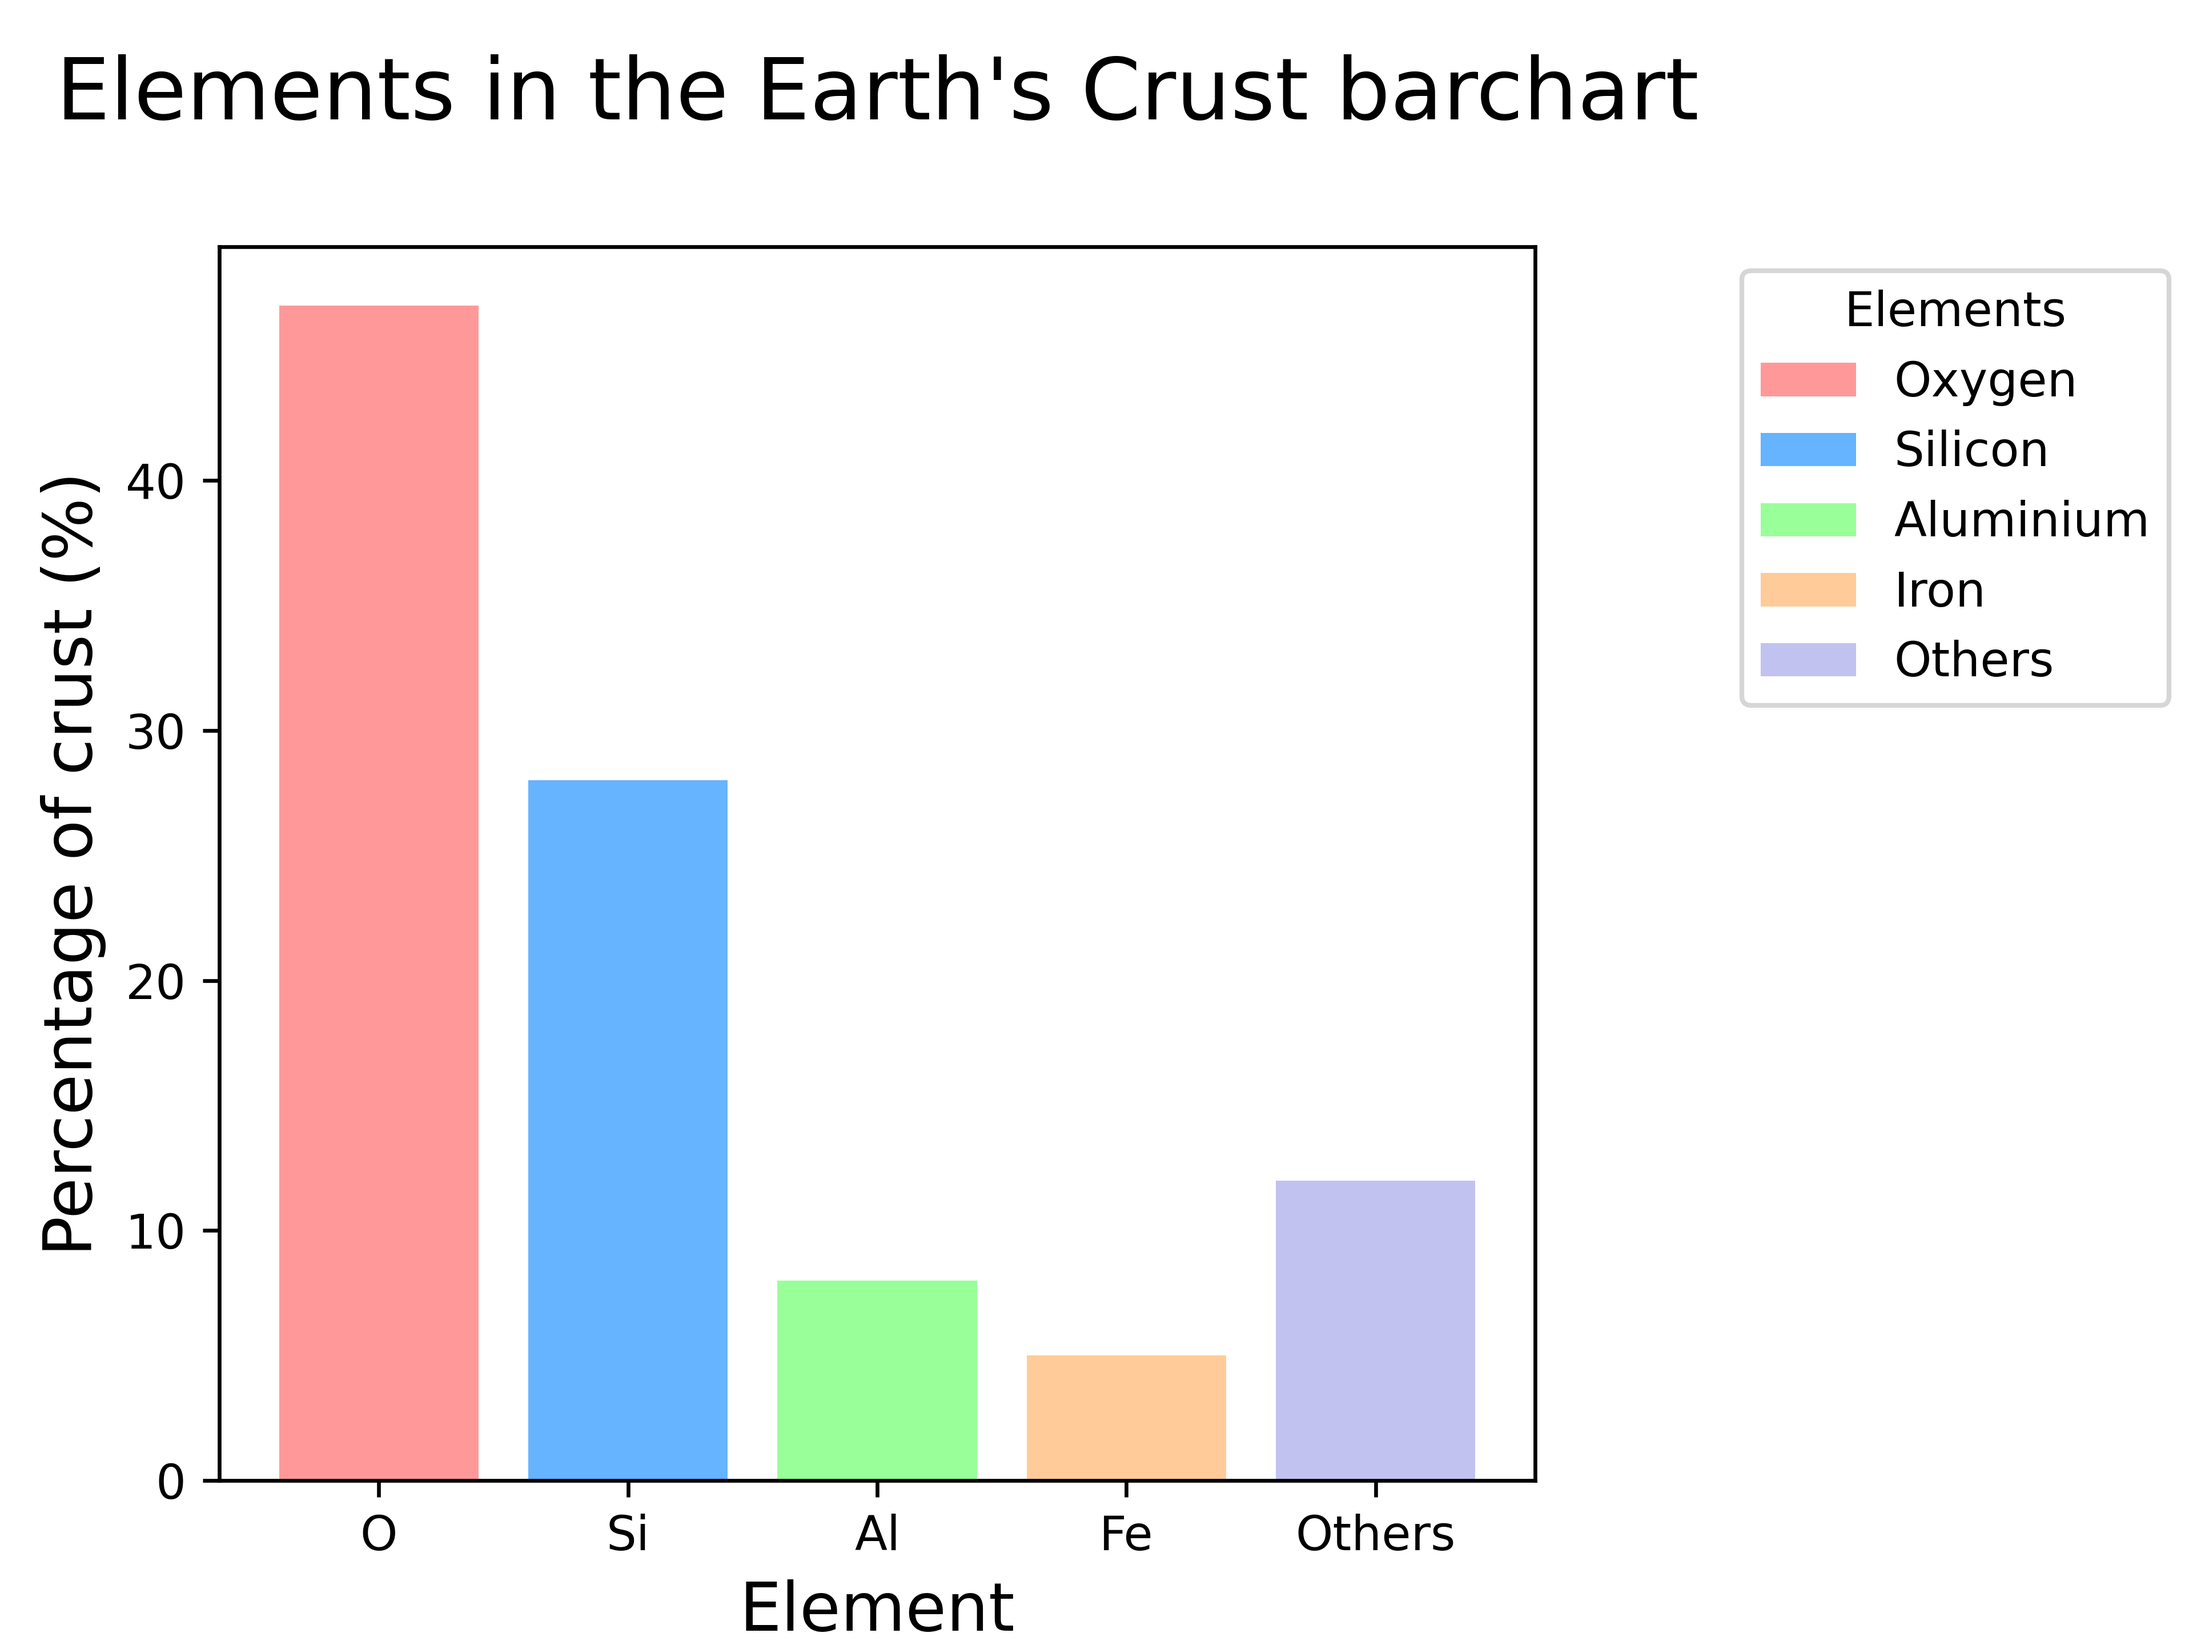
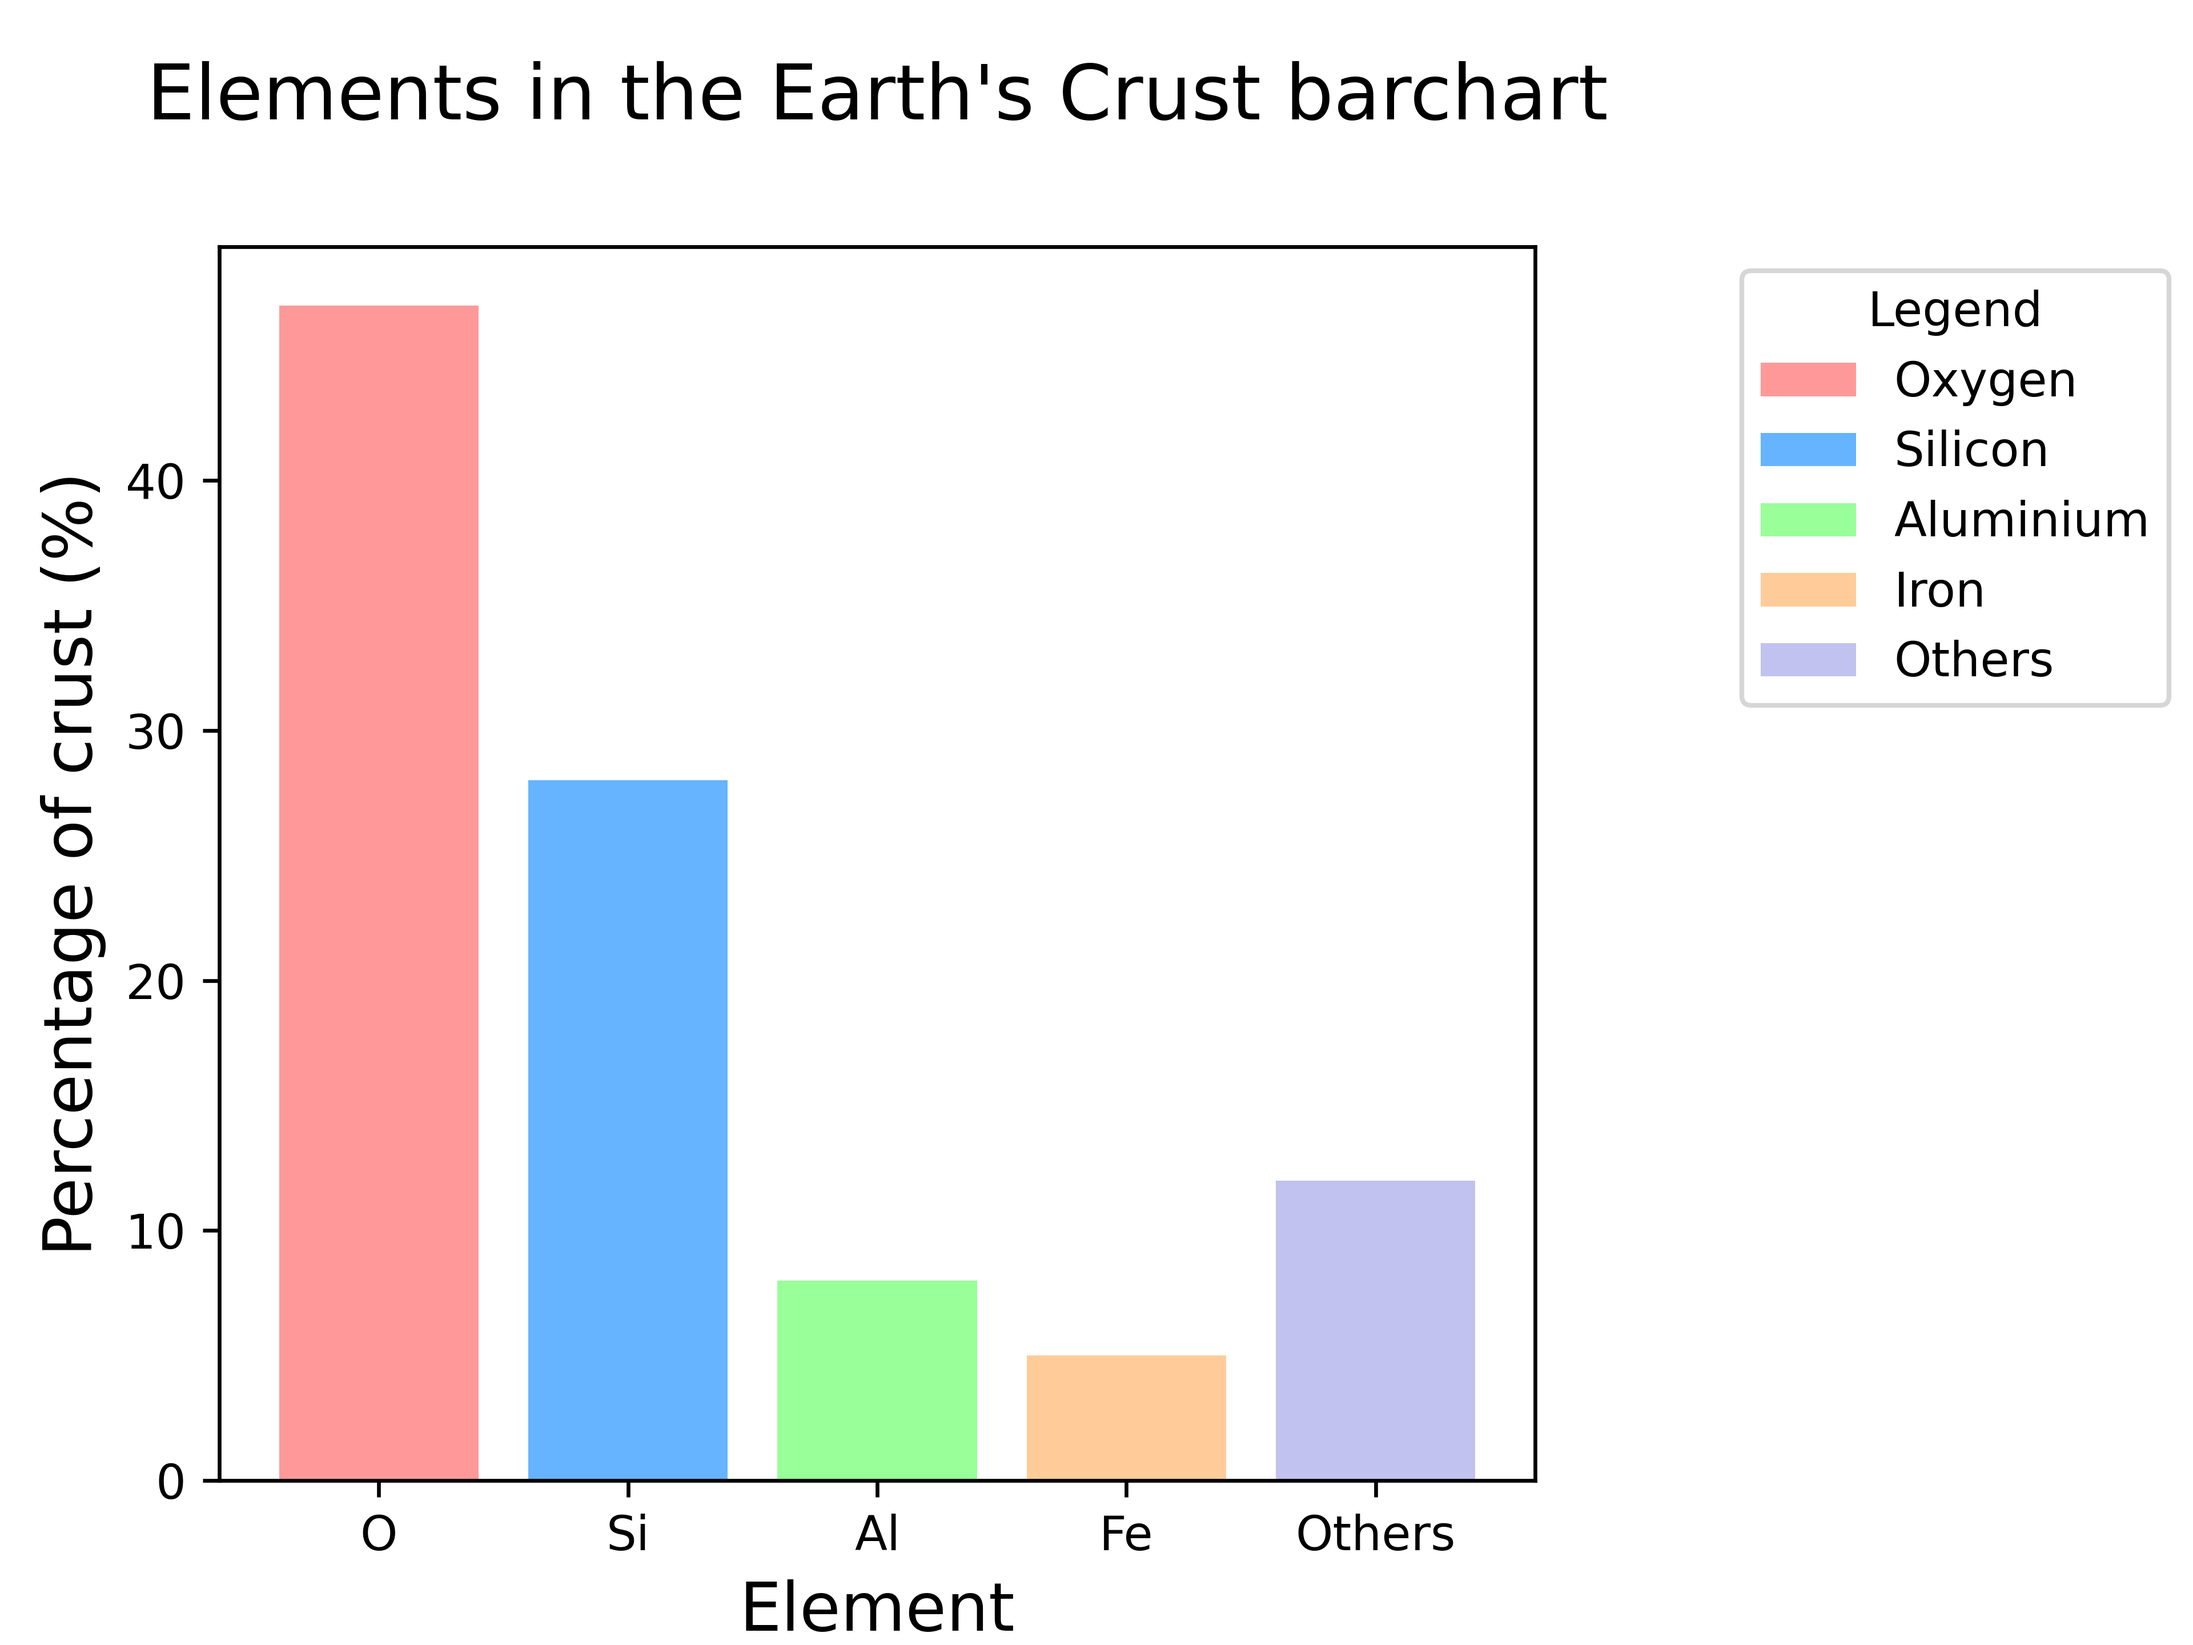
up

Changed region(s): [[0.0312, 0.0312, 0.7812, 0.0938], [0.8438, 0.1562, 0.9375, 0.2188]]

diff --git a/docs/matplotlib/files/bar_chart_earth.py b/docs/matplotlib/files/bar_chart_earth.py
@@ -4,7 +4,7 @@ from pathlib import Path
 from matplotlib.patches import Patch
 
 
-def plot_bar_chart(data, labels, full_labels, title):
+def plot_bar_chart(data, labels, legend_labels, title, xlabel, ylabel):
     # Define the colors to use for the bar chart
     colors = ['#ff9999', '#66b3ff', '#99ff99', '#ffcc99', '#c2c2f0']
     # Plot the bar chart with the given data, labels, and formatting options
@@ -12,14 +12,14 @@ def plot_bar_chart(data, labels, full_labels, title):
     # Add some space around the plot
     plt.subplots_adjust(left=0.1, right=0.70, top=0.85, bottom=0.1)
     # X and Y labels
-    plt.xlabel("Element", fontsize=14)
-    plt.ylabel("Percentage of crust (%)", fontsize=14)
+    plt.xlabel(xlabel, fontsize=14)
+    plt.ylabel(ylabel, fontsize=14)
     # Add a title to the plot
-    plt.title(title, y=1.08, size=18)
+    plt.title(title, y=1.08, size=16)
     # Create a list of Patch objects with the same colors as the bars in the bar chart
-    legend_elements = [Patch(facecolor=color, label=label) for color, label in zip(colors, full_labels)]
-    # Add a legend to the plot using the given full_labels and colors from the bar chart
-    plt.legend(handles=legend_elements, title="Elements", loc="upper right", bbox_to_anchor=(1, 0, 0.5, 1))
+    legend_elements = [Patch(facecolor=color, label=label) for color, label in zip(colors, legend_labels)]
+    # Add a legend to the plot using the given legend_labels and colors from the bar chart
+    plt.legend(handles=legend_elements, title="Legend", loc="upper right", bbox_to_anchor=(1, 0, 0.5, 1))
     # Get the directory of the current file
     currfile_dir = Path(__file__).parent
     # Replace spaces in title with underscores to create filename for saving figure
@@ -38,11 +38,15 @@ def earth_elements():
     # Labels for each wedge of the pie chart
     labels = ['O', 'Si', 'Al', 'Fe', 'Others']
     # Full labels for legend
-    full_labels = ['Oxygen', 'Silicon', 'Aluminium', 'Iron', 'Others']
+    legend_labels = ['Oxygen', 'Silicon', 'Aluminium', 'Iron', 'Others']
     # Title for plot and filename for saving figure
     title = "Elements in the Earth's Crust barchart"
-    # Call the function to plot the data with given data, labels, title and full_labels
-    plot_bar_chart(data, labels, full_labels, title)
+    # X axis label
+    xlabel = "Element"
+    # Y axis label
+    ylabel = "Percentage of crust (%)"
+    # Call the function to plot the data with given data, labels, legend_labels, title and axis labels.
+    plot_bar_chart(data, labels, legend_labels, title, xlabel, ylabel)
 
 
 if __name__ == '__main__':

diff --git a/docs/matplotlib/files/bar_chart_earth_simple.py b/docs/matplotlib/files/bar_chart_earth_simple.py
@@ -1,0 +1,43 @@
+import matplotlib.pyplot as plt
+import numpy as np
+from pathlib import Path
+from matplotlib.patches import Patch
+
+
+def plot_bar_chart(data, labels, title, xlabel, ylabel):
+    # Plot the bar chart with the given data, labels, and formatting options
+    plt.bar(labels, data)
+    # X and Y labels
+    plt.xlabel(xlabel)
+    plt.ylabel(ylabel)
+    # Add a title to the plot
+    plt.title(title)
+    # Get the directory of the current file
+    currfile_dir = Path(__file__).parent
+    # Replace spaces in title with underscores to create filename for saving figure
+    filename = title.replace(" ", "_")
+    # build the image file path
+    filepath = currfile_dir / (f"{filename}.png")
+    # Save figure (dpi 300 is good when saving so graph has high resolution)
+    plt.savefig(filepath, dpi=600)
+    # Show plot
+    plt.show()
+
+
+def earth_elements():
+    # Data to plot
+    data = [47, 28, 8, 5, 12]
+    # Labels for each wedge of the pie chart
+    labels = ['O', 'Si', 'Al', 'Fe', 'Others']
+    # Title for plot
+    title = "Earth's Crust barchart"
+    # X axis label
+    xlabel = "Element"
+    # Y axis label
+    ylabel = "Percentage of crust (%)"
+    # Call the function to plot the data with given data, labels, title axis labels
+    plot_bar_chart(data, labels, title, xlabel, ylabel)
+
+
+if __name__ == '__main__':
+    earth_elements()

diff --git a/docs/matplotlib/files/plot_2_simple.py b/docs/matplotlib/files/plot_2_simple.py
@@ -25,7 +25,7 @@ def plot_line_graph(title, equations, min_x, max_x):
         y = eval(equation)
         # Plot the line graph
         plt.plot(x, y)
-    # Add a x, y axis lines through the origin
+    # Add x, y axis lines through the origin
     plt.axhline(0, color="gray", linestyle="-")
     plt.axvline(0, color="gray", linestyle="-")
     # Add a title (specify font parameters with fontdict)

diff --git a/docs/matplotlib/matplotlib_bar_chart.rst b/docs/matplotlib/matplotlib_bar_chart.rst
@@ -6,6 +6,34 @@ Matplotlib bar chart
 
 ----
 
+Simple bar chart
+------------------
+
+| This is a simple bar chart.
+
+.. image:: images/Earth's_Crust_barchart.png
+    :width: 600
+    :align: center
+
+----
+
+Python code
+-------------
+
+| The python code is below.
+| The code is commented to indicate what each part is doing.
+
+.. literalinclude:: files/bar_chart_earth_simple.py
+    :linenos:
+
+----
+
+Customized bar chart
+------------------------
+
+| This plot has more customizations added.
+| It has code to save the bar chart as a png file.
+
 .. image:: images/Elements_in_the_Earth's_Crust_barchart.png
     :width: 600
     :align: center
@@ -20,4 +48,3 @@ Python code
 
 .. literalinclude:: files/bar_chart_earth.py
     :linenos:
-

diff --git a/docs/matplotlib/matplotlib_plot_2.rst b/docs/matplotlib/matplotlib_plot_2.rst
@@ -10,7 +10,7 @@ Simple Multiple line plot
 --------------------------------
 
 | This is a basic plot for the equations y = 2x - 2, y = -3x + 3, y = (x - 1)\ :sup:`2`\ , y = 0.4(x - 1)\ :sup:`3`\ .
-| It has a grid and X and Y axes.
+| It has X and Y axes.
 
 .. image:: images/Multiple_lines.png
     :width: 300
